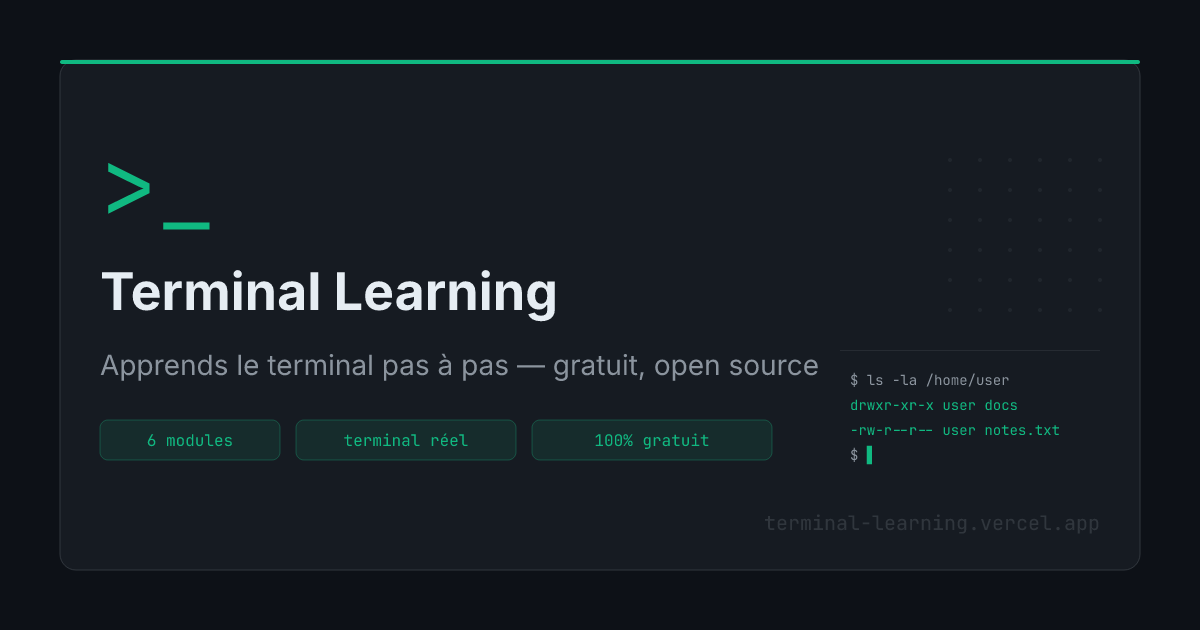
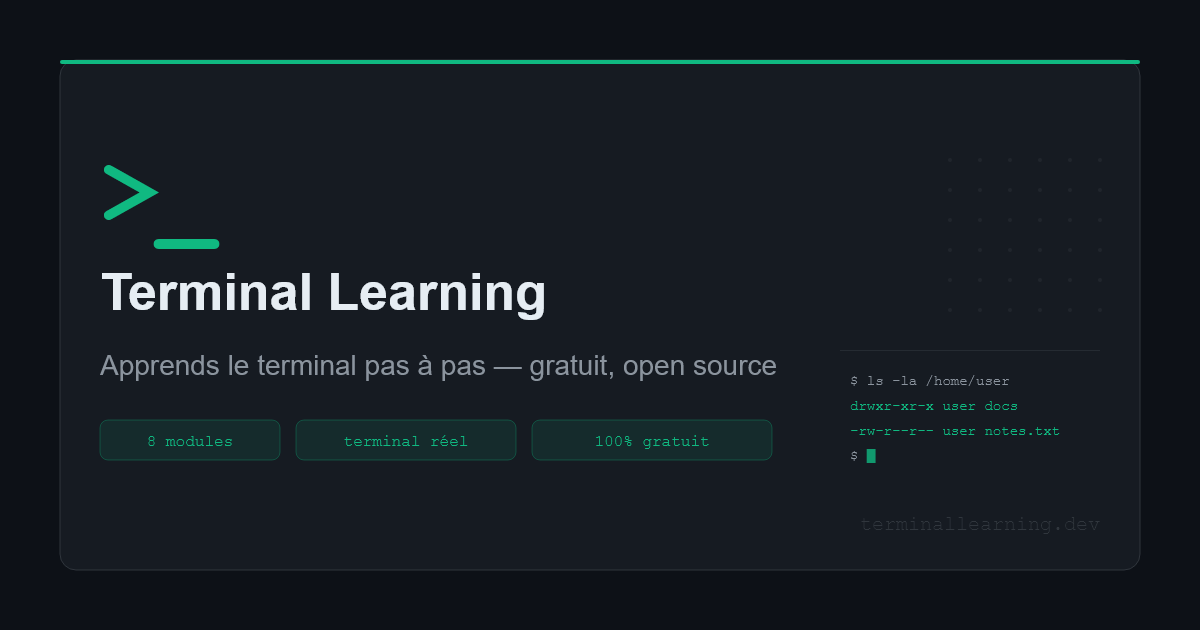
fix(a11y): aria-label on terminal input + update OG image
- TerminalEmulator.tsx: add aria-label="Commande terminal" on input — fixes Lighthouse label audit on lesson pages (accessibility 93→100)
- og-image.svg + og-image.png: 6 modules → 8, terminal-learning.vercel.app → terminallearning.dev

diff --git a/src/app/components/TerminalEmulator.tsx b/src/app/components/TerminalEmulator.tsx
@@ -257,6 +257,7 @@ export function TerminalEmulator({ onCommand, welcomeMessage, className = '', us
             onKeyDown={handleKeyDown}
             className={`flex-1 bg-transparent text-[#e6edf3] font-mono text-base md:text-sm outline-none min-w-0 ${environment === 'windows' ? 'caret-[#56b6c2]' : environment === 'macos' ? 'caret-[#58a6ff]' : 'caret-[#3fb950]'}`}
             autoFocus
+            aria-label="Commande terminal"
             autoComplete="off"
             autoCorrect="off"
             autoCapitalize="off"
